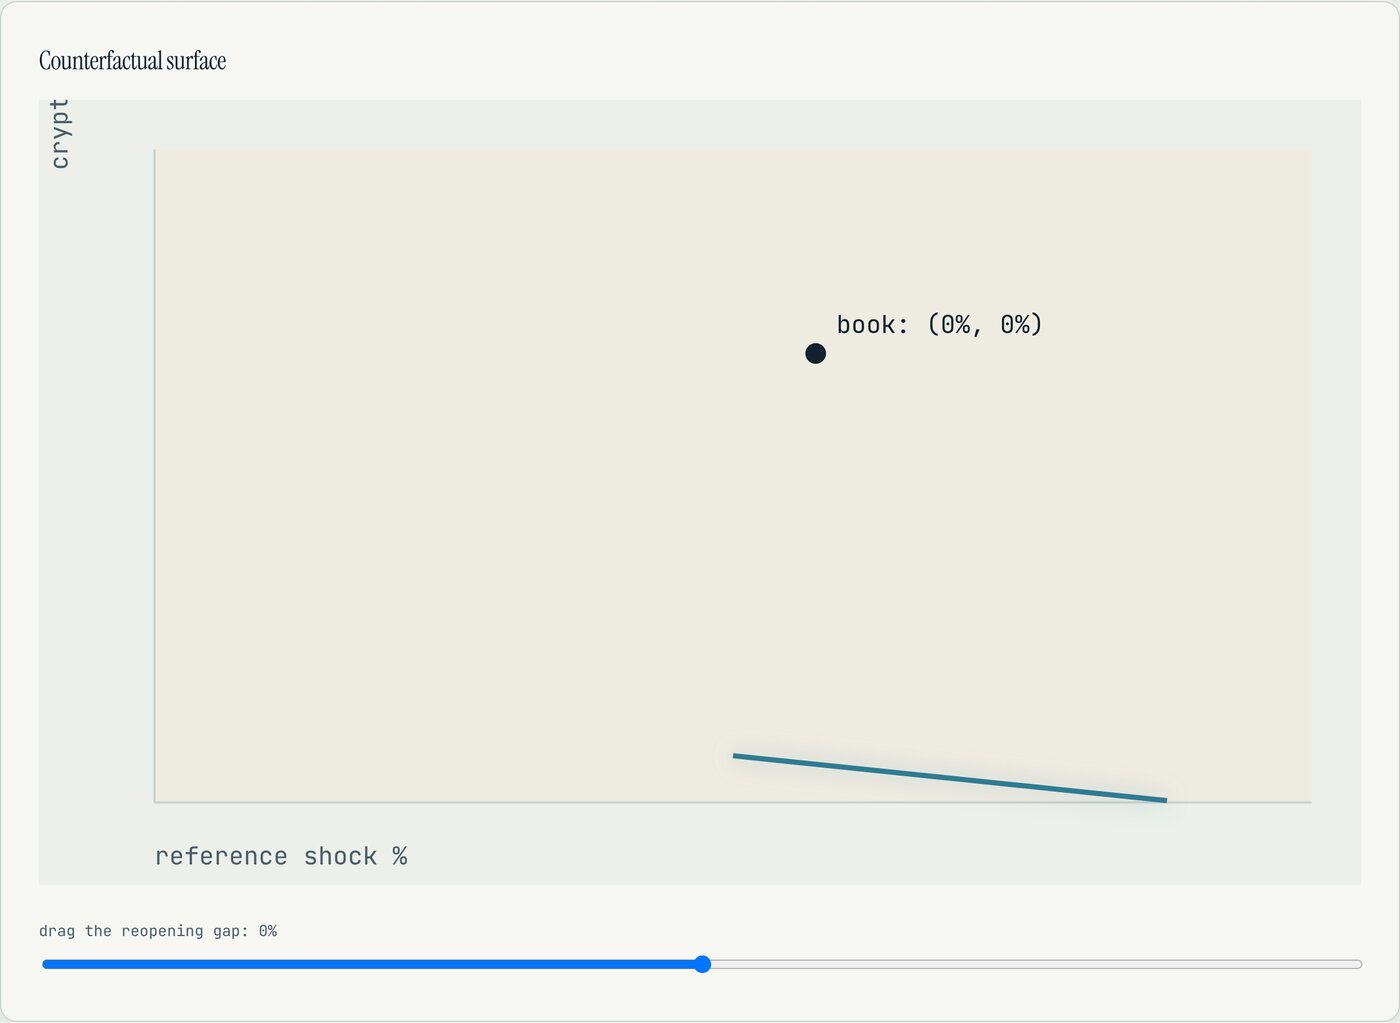
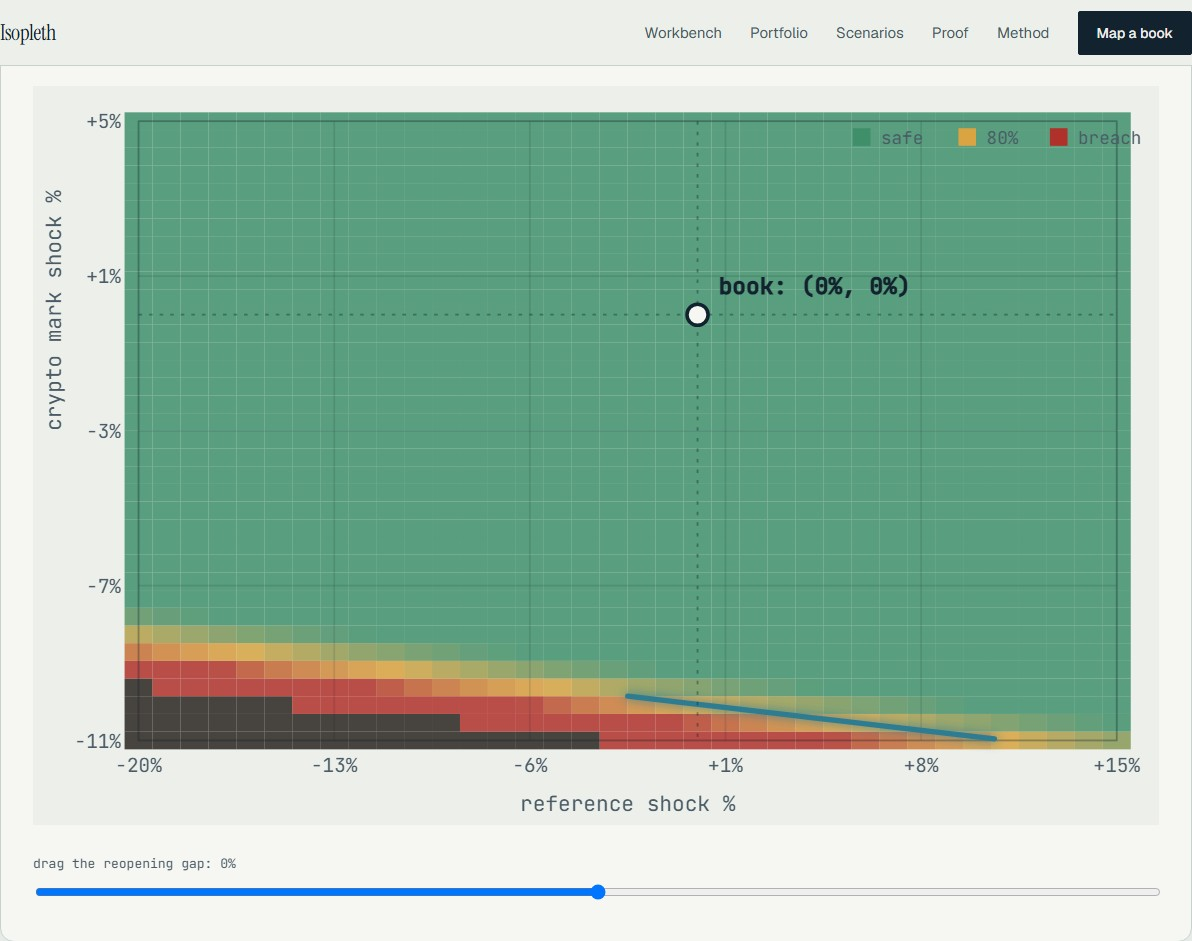
Upgrade the Counterfactual Surface to a real heatmap; fix screenshots
- ContourChart now renders the full kernel-computed surface as a
  green/amber/red/insolvent heatmap (36x36 grid), with gridlines,
  numeric axis ticks, and a legend - not a flat background with just
  a line on it
- Added scripts/capture-screenshots.ts (reproducible, committed) to
  regenerate the README screenshots: fixed 1400x875 landscape viewport
  captures instead of ad-hoc fullPage grabs, which had produced
  wildly inconsistent portrait-vs-landscape sizing across the grid
- Fixed a real bug the new captures surfaced: the contour close-up
  (an element screenshot) composited the sticky navbar text over the
  panel heading when the panel sat directly under it on scroll

diff --git a/apps/web/components/ContourChart.tsx b/apps/web/components/ContourChart.tsx
@@ -6,8 +6,37 @@ import { line as d3line, curveMonotoneX } from "d3-shape";
 import type { ContourFrame } from "../lib/contourDemo";
 
 const WIDTH = 640;
-const HEIGHT = 380;
-const MARGIN = { top: 24, right: 24, bottom: 40, left: 56 };
+const HEIGHT = 420;
+const MARGIN = { top: 20, right: 24, bottom: 48, left: 60 };
+
+// Safe -> warn -> breach, matching the design tokens in globals.css
+// (--safe/--warn/--breach) as RGB triples so they can be interpolated -
+// CSS custom properties can't be lerped directly in JS.
+const SAFE: [number, number, number] = [63, 143, 107];
+const WARN: [number, number, number] = [217, 164, 65];
+const BREACH: [number, number, number] = [176, 48, 42];
+
+function lerp(a: number, b: number, t: number) {
+  return a + (b - a) * Math.max(0, Math.min(1, t));
+}
+
+function mixColor(a: [number, number, number], b: [number, number, number], t: number): string {
+  return `rgb(${Math.round(lerp(a[0], b[0], t))}, ${Math.round(lerp(a[1], b[1], t))}, ${Math.round(lerp(a[2], b[2], t))})`;
+}
+
+/** Maps a cross margin rate to a color: green well below threshold, amber approaching it, red beyond it. Null (kernel refused - insolvent) gets its own dark marker, never silently blended into the scale. */
+function rateColor(rate: number | null, threshold: number): string {
+  if (rate === null) return "#2A2420"; // insolvent - deliberately outside the safe/warn/breach gradient, not a "worse red"
+  const t = rate / threshold;
+  if (t <= 0.6) return mixColor(SAFE, SAFE, 0);
+  if (t <= 1) return mixColor(SAFE, WARN, (t - 0.6) / 0.4);
+  return mixColor(WARN, BREACH, Math.min(1, (t - 1) / 0.8));
+}
+
+function niceTicks(min: number, max: number, count: number): number[] {
+  const step = (max - min) / (count - 1);
+  return Array.from({ length: count }, (_, i) => Math.round(min + i * step));
+}
 
 export function ContourChart({
   frames,
@@ -41,8 +70,6 @@ export function ContourChart({
       path.style.strokeDasharray = `${length}`;
       path.style.strokeDashoffset = `${length}`;
       path.style.transition = "none";
-      // Force layout before the transition so the browser animates from the
-      // offset above, not from whatever it painted first.
       path.getBoundingClientRect();
       path.style.transition = "stroke-dashoffset 1.4s cubic-bezier(0.22, 1, 0.36, 1)";
       path.style.strokeDashoffset = "0";
@@ -54,6 +81,16 @@ export function ContourChart({
 
   const xScale = useMemo(() => scaleLinear().domain([xRange.min, xRange.max]).range([MARGIN.left, WIDTH - MARGIN.right]), [xRange]);
   const yScale = useMemo(() => scaleLinear().domain(yRange).range([HEIGHT - MARGIN.bottom, MARGIN.top]), [yRange]);
+
+  const xTicks = useMemo(() => niceTicks(xRange.min, xRange.max, 6), [xRange]);
+  const yTicks = useMemo(() => niceTicks(yRange[0], yRange[1], 5), [yRange]);
+
+  // Heatmap cell size, derived from the surface grid's own resolution so
+  // cells tile exactly with no gaps or overlap.
+  const surfaceXs = Array.from(new Set(frame.surface.map((c) => c.x))).sort((a, b) => a - b);
+  const surfaceYs = Array.from(new Set(frame.surface.map((c) => c.y))).sort((a, b) => a - b);
+  const cellW = surfaceXs.length > 1 ? xScale(surfaceXs[1]!) - xScale(surfaceXs[0]!) : 0;
+  const cellH = surfaceYs.length > 1 ? yScale(surfaceYs[0]!) - yScale(surfaceYs[1]!) : 0;
 
   // Split into contiguous runs so a null (no-crossing) gap renders as a real
   // gap in the line, never bridged - a contour must never be drawn through a
@@ -77,15 +114,63 @@ export function ContourChart({
 
   return (
     <div>
-      <svg viewBox={`0 0 ${WIDTH} ${HEIGHT}`} width="100%" role="img" aria-label="Isopleth contour: crypto mark shock vs reference reopening gap">
+      <svg
+        viewBox={`0 0 ${WIDTH} ${HEIGHT}`}
+        width="100%"
+        role="img"
+        aria-label="Isopleth counterfactual surface: modelled cross margin rate across reference shock and crypto mark shock, with the threshold contour overlaid"
+      >
+        <defs>
+          <filter id="contourGlow" x="-50%" y="-50%" width="200%" height="200%">
+            <feGaussianBlur stdDeviation="3" result="blur" />
+            <feMerge>
+              <feMergeNode in="blur" />
+              <feMergeNode in="SourceGraphic" />
+            </feMerge>
+          </filter>
+        </defs>
+
         <rect x={0} y={0} width={WIDTH} height={HEIGHT} fill="var(--vellum)" />
-        {/* fragile region wash, above the contour */}
-        <rect x={MARGIN.left} y={MARGIN.top} width={WIDTH - MARGIN.left - MARGIN.right} height={HEIGHT - MARGIN.top - MARGIN.bottom} fill="#F3E6D8" opacity={0.4} />
 
-        {/* axes */}
-        <line x1={MARGIN.left} y1={HEIGHT - MARGIN.bottom} x2={WIDTH - MARGIN.right} y2={HEIGHT - MARGIN.bottom} stroke="var(--rule)" />
-        <line x1={MARGIN.left} y1={MARGIN.top} x2={MARGIN.left} y2={HEIGHT - MARGIN.bottom} stroke="var(--rule)" />
+        {/* the surface heatmap: the real kernel evaluated across the grid, not a decorative gradient */}
+        <g>
+          {frame.surface.map((cell, i) => (
+            <rect
+              key={i}
+              x={xScale(cell.x) - cellW / 2}
+              y={yScale(cell.y) - cellH / 2}
+              width={Math.max(cellW, 1)}
+              height={Math.max(cellH, 1)}
+              fill={rateColor(cell.crossMarginRate, 0.8)}
+              opacity={0.85}
+            />
+          ))}
+        </g>
 
+        {/* gridlines, drawn over the heatmap so the surface still reads as structured data */}
+        {xTicks.map((t) => (
+          <line key={`vx${t}`} x1={xScale(t)} y1={MARGIN.top} x2={xScale(t)} y2={HEIGHT - MARGIN.bottom} stroke="rgba(18,34,46,0.12)" strokeWidth={1} />
+        ))}
+        {yTicks.map((t) => (
+          <line key={`hy${t}`} x1={MARGIN.left} y1={yScale(t)} x2={WIDTH - MARGIN.right} y2={yScale(t)} stroke="rgba(18,34,46,0.12)" strokeWidth={1} />
+        ))}
+
+        {/* axis frame */}
+        <rect x={MARGIN.left} y={MARGIN.top} width={WIDTH - MARGIN.left - MARGIN.right} height={HEIGHT - MARGIN.top - MARGIN.bottom} fill="none" stroke="var(--ink)" strokeOpacity={0.25} />
+
+        {/* tick labels */}
+        {xTicks.map((t) => (
+          <text key={`xl${t}`} x={xScale(t)} y={HEIGHT - MARGIN.bottom + 18} textAnchor="middle" className="mono" fontSize={11} fill="var(--ink-soft)">
+            {t > 0 ? `+${t}%` : `${t}%`}
+          </text>
+        ))}
+        {yTicks.map((t) => (
+          <text key={`yl${t}`} x={MARGIN.left - 10} y={yScale(t) + 4} textAnchor="end" className="mono" fontSize={11} fill="var(--ink-soft)">
+            {t > 0 ? `+${t}%` : `${t}%`}
+          </text>
+        ))}
+
+        {/* the contour itself: the located threshold crossing, bisected by the kernel */}
         {runs.map((run, i) => (
           <path
             key={i}
@@ -95,23 +180,36 @@ export function ContourChart({
             d={pathGen(run) ?? undefined}
             fill="none"
             stroke="var(--contour)"
-            strokeWidth={2.5}
-            style={{ filter: "drop-shadow(0 0 6px rgba(47,123,146,0.35))" }}
+            strokeWidth={3}
+            strokeLinecap="round"
+            filter="url(#contourGlow)"
           />
         ))}
 
         {/* current book position crosshair, at (0% shock, 0% shock) */}
-        <circle cx={xScale(0)} cy={yScale(0)} r={5} fill="var(--ink)" />
-        <text x={xScale(0) + 10} y={yScale(0) - 10} className="mono" fontSize={12} fill="var(--ink)">
+        <line x1={xScale(0)} y1={MARGIN.top} x2={xScale(0)} y2={HEIGHT - MARGIN.bottom} stroke="var(--ink)" strokeDasharray="2,4" strokeOpacity={0.4} />
+        <line x1={MARGIN.left} y1={yScale(0)} x2={WIDTH - MARGIN.right} y2={yScale(0)} stroke="var(--ink)" strokeDasharray="2,4" strokeOpacity={0.4} />
+        <circle cx={xScale(0)} cy={yScale(0)} r={6} fill="var(--paper)" stroke="var(--ink)" strokeWidth={2} />
+        <text x={xScale(0) + 12} y={yScale(0) - 12} className="mono" fontSize={13} fontWeight={600} fill="var(--ink)">
           book: (0%, 0%)
         </text>
 
-        <text x={MARGIN.left} y={HEIGHT - 10} className="mono" fontSize={12} fill="var(--ink-soft)">
+        <text x={(MARGIN.left + WIDTH - MARGIN.right) / 2} y={HEIGHT - 8} textAnchor="middle" className="mono" fontSize={12} fill="var(--ink-soft)">
           reference shock %
         </text>
-        <text x={14} y={MARGIN.top + 10} className="mono" fontSize={12} fill="var(--ink-soft)" transform={`rotate(-90 14 ${MARGIN.top + 10})`}>
+        <text x={16} y={(MARGIN.top + HEIGHT - MARGIN.bottom) / 2} className="mono" fontSize={12} fill="var(--ink-soft)" transform={`rotate(-90 16 ${(MARGIN.top + HEIGHT - MARGIN.bottom) / 2})`}>
           crypto mark shock %
         </text>
+
+        {/* legend */}
+        <g transform={`translate(${WIDTH - MARGIN.right - 150}, ${MARGIN.top + 4})`}>
+          <rect x={0} y={0} width={10} height={10} fill={mixColor(SAFE, SAFE, 0)} />
+          <text x={16} y={9} className="mono" fontSize={10} fill="var(--ink-soft)">safe</text>
+          <rect x={60} y={0} width={10} height={10} fill={mixColor(SAFE, WARN, 1)} />
+          <text x={76} y={9} className="mono" fontSize={10} fill="var(--ink-soft)">80%</text>
+          <rect x={112} y={0} width={10} height={10} fill={mixColor(WARN, BREACH, 1)} />
+          <text x={128} y={9} className="mono" fontSize={10} fill="var(--ink-soft)">breach</text>
+        </g>
       </svg>
 
       <div style={{ marginTop: 16 }}>

diff --git a/scripts/capture-screenshots.ts b/scripts/capture-screenshots.ts
@@ -1,0 +1,62 @@
+/// <reference lib="dom" />
+// Regenerates the 5 README screenshots (docs/screens/*.jpg) against a real
+// running production build. Fixed-viewport captures, never fullPage - a
+// full-page capture of a content-heavy route (workbench, proof) produces an
+// extremely tall portrait image that doesn't belong in a uniform showcase
+// grid next to a landscape banner. Run with the app already built and
+// served (see package.json "screenshots" script).
+import { chromium } from "@playwright/test";
+import { mkdir } from "node:fs/promises";
+
+const BASE_URL = process.env.SCREENSHOT_BASE_URL ?? "http://localhost:3300";
+const VIEWPORT = { width: 1400, height: 875 }; // landscape desktop, matches the two shots that were already right
+const OUT_DIR = "docs/screens";
+
+async function main() {
+  await mkdir(OUT_DIR, { recursive: true });
+  const browser = await chromium.launch();
+  const page = await browser.newPage({ viewport: VIEWPORT, deviceScaleFactor: 1 });
+
+  // Landing banner: top of "/", exactly what a visitor sees first.
+  await page.goto(`${BASE_URL}/`, { waitUntil: "networkidle" });
+  await page.screenshot({ path: `${OUT_DIR}/landing-banner.jpg`, type: "jpeg", quality: 90 });
+
+  // Workbench: scrolled just enough that the actual contour line (not just
+  // the empty top of the chart panel) is in frame alongside the result cards.
+  await page.goto(`${BASE_URL}/workbench`, { waitUntil: "networkidle" });
+  await page.evaluate(() => window.scrollTo(0, 560));
+  await page.waitForTimeout(200);
+  await page.screenshot({ path: `${OUT_DIR}/workbench.jpg`, type: "jpeg", quality: 90 });
+
+  // Contour: just the chart panel itself, not the whole page - an element
+  // screenshot is naturally the right aspect ratio, never a tall capture.
+  // Scroll so the panel sits clear of the sticky navbar first - an element
+  // screenshot still composites whatever's on screen at that position, so a
+  // panel scrolled to sit directly under the fixed header gets the header's
+  // text visibly overlapping the capture.
+  const contourPanel = page.locator("text=Counterfactual surface").locator("xpath=ancestor::div[contains(@class,'panel')][1]");
+  const panelBoxBeforeScroll = await contourPanel.boundingBox();
+  const currentScrollY = await page.evaluate(() => window.scrollY);
+  if (panelBoxBeforeScroll) {
+    const panelPageTop = panelBoxBeforeScroll.y + currentScrollY;
+    await page.evaluate((top) => window.scrollTo(0, Math.max(0, top)), panelPageTop - 90);
+  }
+  await page.waitForTimeout(200);
+  await contourPanel.screenshot({ path: `${OUT_DIR}/contour.jpg`, type: "jpeg", quality: 90 });
+
+  // Scenarios: top of the page (preset cards).
+  await page.goto(`${BASE_URL}/scenarios`, { waitUntil: "networkidle" });
+  await page.screenshot({ path: `${OUT_DIR}/scenarios.jpg`, type: "jpeg", quality: 90 });
+
+  // Proof: top of the page (claims ledger cards).
+  await page.goto(`${BASE_URL}/proof`, { waitUntil: "networkidle" });
+  await page.screenshot({ path: `${OUT_DIR}/proof.jpg`, type: "jpeg", quality: 90 });
+
+  await browser.close();
+  console.log(`[capture-screenshots] wrote 5 uniform ${VIEWPORT.width}x${VIEWPORT.height} landscape screenshots to ${OUT_DIR}/`);
+}
+
+main().catch((e) => {
+  console.error("[capture-screenshots] fatal:", e);
+  process.exitCode = 1;
+});

diff --git a/apps/web/lib/contourDemo.ts b/apps/web/lib/contourDemo.ts
@@ -2,7 +2,7 @@
 // imported from a "use client" file - packages/core's hash.ts pulls in
 // node:crypto, which has no business in a client bundle. Server Components
 // call this and pass plain computed numbers down to the client chart.
-import { locateContour, type Scenario } from "@isopleth/core";
+import { locateContour, buildSurface, type Scenario, type SurfaceCell } from "@isopleth/core";
 import { demoBook } from "./demoBook";
 
 export const THRESHOLD = 0.8; // 80% cross margin rate - Bitget's documented warning line (F3)
@@ -20,19 +20,26 @@ const axis = (x: number, y: number): Scenario => ({
 export interface ContourFrame {
   reopeningGapPct: number; // the slider value this frame represents
   points: Array<{ x: number; y: number | null }>;
+  surface: SurfaceCell[]; // the full counterfactual surface, same grid, same kernel call
 }
 
-/** Precompute the contour at a handful of "what if the reopening gap were X%" slider positions. */
+const SURFACE_RESOLUTION = 36; // cells per axis - fine enough to read as a real heatmap, not blocky
+
+/** Precompute the contour AND the full counterfactual surface at a handful of "what if the reopening gap were X%" slider positions. */
 export function buildContourFrames(): ContourFrame[] {
   const book = demoBook();
   const sliderValues = [-10, -5, 0, 5, 10];
   const xs = Array.from({ length: 25 }, (_, i) => X_RANGE.min + (i * (X_RANGE.max - X_RANGE.min)) / 24);
+  const surfaceXs = Array.from({ length: SURFACE_RESOLUTION }, (_, i) => X_RANGE.min + (i * (X_RANGE.max - X_RANGE.min)) / (SURFACE_RESOLUTION - 1));
+  const surfaceYs = Array.from({ length: SURFACE_RESOLUTION }, (_, i) => Y_RANGE[0] + (i * (Y_RANGE[1] - Y_RANGE[0])) / (SURFACE_RESOLUTION - 1));
 
   return sliderValues.map((gap) => {
     // the slider nudges the reference shock axis itself, reusing the same
-    // kernel call the static contour uses - one mechanism, not two.
+    // kernel call the static contour and surface both use - one mechanism,
+    // never two different code paths computing the "same" number.
     const shiftedAxis = (x: number, y: number) => axis(x + gap, y);
     const points = locateContour(book, shiftedAxis, THRESHOLD, xs, Y_RANGE, 1e-3);
-    return { reopeningGapPct: gap, points };
+    const surface = buildSurface(book, shiftedAxis, surfaceXs, surfaceYs);
+    return { reopeningGapPct: gap, points, surface };
   });
 }
